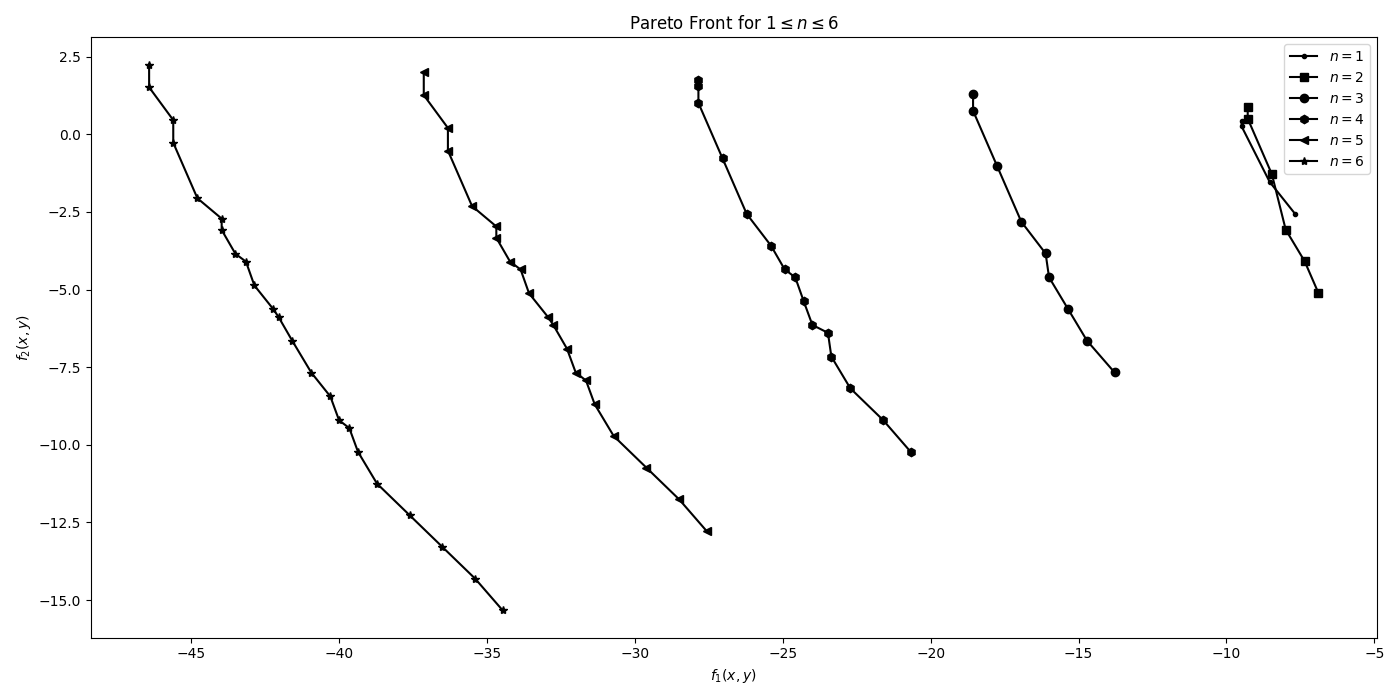
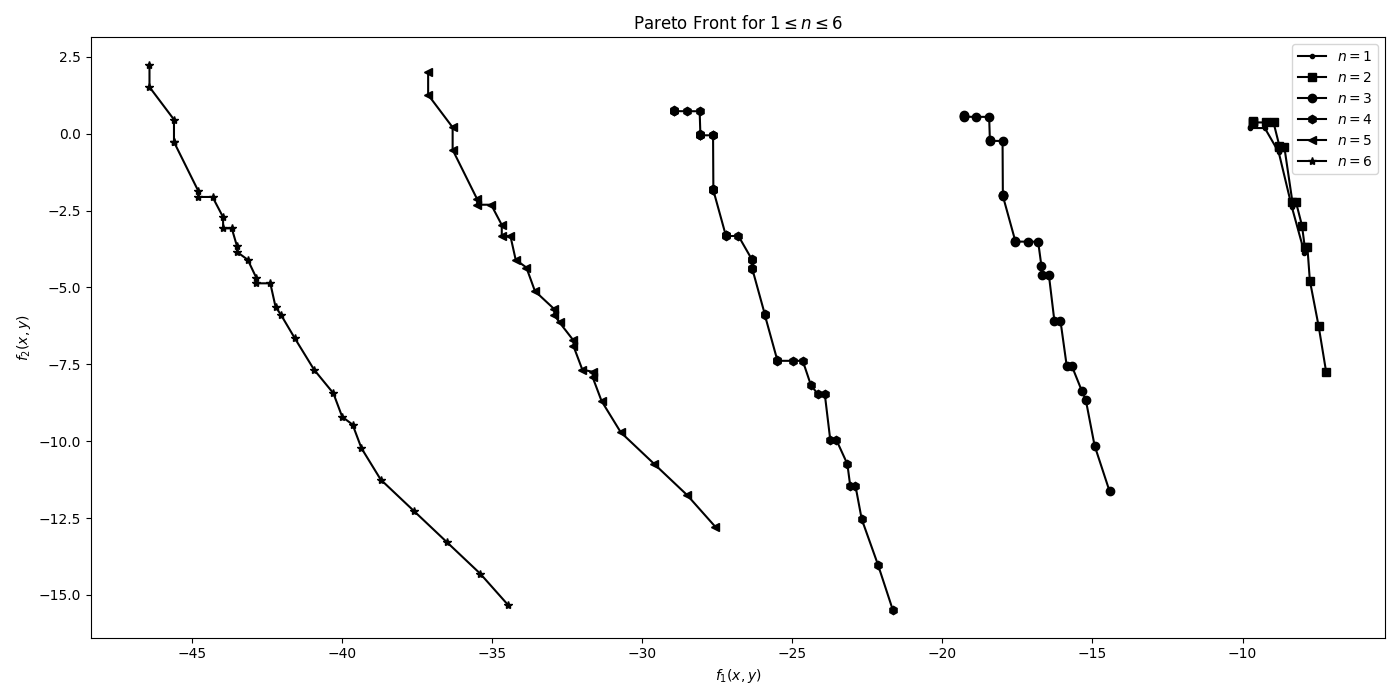
img update for readme

diff --git a/README.md b/README.md
@@ -1,22 +1,6 @@
 
 # Objective Function Suite
 
-# IN PROGRESS. Last update Sept. 2, 2024
-TODO list:
-
-
-[ ] Add AntennaCAT set functions
-
-[x] Add blurbs for single input, single objective functions
-
-[ ] Update headers to match code migration
-
-[ ] Cosmetic graph fixes for README
-
-[ ] Update summary tables in README
-
-
-
 ## Table of Contents
 * [Project Description](#project-description)
 * [Requirements](#requirements)
@@ -77,7 +61,7 @@ TODO list:
     * [AntennaCAT Objective Function Set](#antennacat-objective-function-set)
         * [AntennaCAT Function 1](#antennacat-function-1)
         * [AntennaCAT Function 2](#antennacat-function-2)
-        * [AntennaCAT Function 3](#antennacat-function-3) (STEP)
+        * [AntennaCAT Function 3](#antennacat-function-3)
         * [AntennaCAT Function 10](#antennacat-function-10)
         * [AntennaCAT Function 11](#antennacat-function-11)
         * [AntennaCAT Function 12](#antennacat-function-12)
@@ -408,7 +392,7 @@ The Booth function is a 2-dimensional input artificial landscape commonly used f
 The Branin function, or Branin-Hoo function, is a 2-dimensional input artificial landscape commonly used for optimization performance evaluation. It has three global minimia. [SFU page](https://www.sfu.ca/~ssurjano/branin.html "Branin function example") 
 
 ```math
- f(x, y) = a*(y-b*(x**2)+c*x-r)**2 + s*(1-t)*np.cos(x)+1
+ f(x, y) = a*(y-b*(x^2)+c*x-r)^2 + s*(1-t)*cos(x)+1
 ```
 
 Where the constants are:
@@ -1086,16 +1070,11 @@ Additional error checking and handling were added to this function's constr_F.py
 </p>
 <p align="center">Fonseca Fleming Feasible Decision Space and Objective Space with Pareto Front for 5 Variables</p>
 
-<p align="center">
- <img src="https://github.com/LC-Linkous/objective_function_suite/blob/main/imgs/fonseca_fleming_plots_pareto_1.png.png" height="300" >
-</p>
-<p align="center">Fonseca Fleming Pareto Front for 1 to 5 Variables with Objective Space</p>
-
 
 <p align="center">
- <img src="https://github.com/LC-Linkous/objective_function_suite/blob/main/imgs/fonseca_fleming_plots_pareto_2.png.png" height="300" >
+ <img src="https://github.com/LC-Linkous/objective_function_suite/blob/main/imgs/fonseca_fleming_plots_pareto_1_6.png" height="300" >
 </p>
-<p align="center"> Comparison of Fonseca Fleming Pareto Front for 1 to 5 Variables</p>
+<p align="center"> Comparison of Fonseca Fleming Pareto Front for 1 to 6 Variables</p>
  
 
 The Fonseca–Fleming Function is a multi-dimensional input, multi-objective function commonly used for optimization performance evaluation. (Fonseca, C. M.; Fleming, P. J. (1995). "An Overview of Evolutionary Algorithms in Multiobjective Optimization". Evol Comput. 3 (1): 1–16. )
@@ -1247,7 +1226,7 @@ Poloni's Two Objective Function is a 2-dimensional, multi-objective function com
 \begin{cases}
 f_{1}(x,y) = [1+(A_{1}-B_{1}(x,y))^2 + (A_{2}-B_{2}(x,y))^2] \\
 f_{2}(x,y) = (x+3)^2 + (y+1)^2
-\end{cases} \\
+\end{cases}
 ```
 ```math
 \text{where}: 
@@ -1698,12 +1677,184 @@ f(x, y) =  \left[(a-x)^2 + b(y-x^2)^2 \right]
 ## AntennaCAT Objective Function Set
 This section contains functions created for testing specific edge cases with the optimizers integrated with AntennaCAT. These functions are not attributed to any particular author and do not come from any particular literature. Additional functions will be added as they are included in the benchmarking process.
 
+#### AntennaCAT Function 1
+
+---
+
+<p align="center">
+ <img src="https://github.com/LC-Linkous/objective_function_suite/blob/main/imgs/antennacat_func1_1_in_1_out_plots.png" height="300" >
+</p>
+<p align="center">One Dimensional AntennaCAT Function 1, Constrained Input 0 to 1</p>
+
+
+AntennaCAT Function 1 is a single-input, single-objective function with a global minima and a local minima when constrained between 0 and 1.
+
+
+
+```math
+f(x) = sin(5x^3) + cos(5x)*(1-tanh(x^2))
+
+```
+
+Where:
+- $x$ is the single decision variable input.
+- The optimal solution is at $f(x) = -0.95$, where $x = 0.97$.
+
+
+| Global Minima | Boundary | Constraints |
+|----------|----------|----------|
+| f(0.97) = -0.95 | $0\leq x\leq 1$ (artificial) |   | 
+
+
+| Local Minima | Boundary | Constraints |
+|----------|----------|----------|
+| f(0.44) = -0.04 | $0\leq x\leq 1$ (artificial) |   | 
+
+
+#### AntennaCAT Function 2
+
+---
+
+<p align="center">
+ <img src="https://github.com/LC-Linkous/objective_function_suite/blob/main/imgs/antennacat_func1_1_in_1_out_plots.png" height="300" >
+</p>
+<p align="center">One Dimensional AntennaCAT Function 1, Constrained Input 0 to 1</p>
+
+
+AntennaCAT Function 2 is a single-input, single-objective function with a global minima and a local minima when constrained between 0 and 1.
+
+
+
+```math
+f(x) = sin(10x^5) + cos(5x)*(1-tanh(x^3))
+
+```
+
+Where:
+- $x$ is the single decision variable input.
+- The optimal solution is at $f(x) = -1.18$, where $x = 0.86$.
+
+
+| Global Minima | Boundary | Constraints |
+|----------|----------|----------|
+| f(0.86) = -1.18 | $0\leq x\leq 1$ (artificial) |   | 
+
+
+| Local Minima | Boundary | Constraints |
+|----------|----------|----------|
+| f(0.48) = -0.4 | $0\leq x\leq 1$ (artificial) |   | 
+
+
+#### AntennaCAT Function 3
+
+---
+
+<p align="center">
+ <img src="https://github.com/LC-Linkous/objective_function_suite/blob/main/imgs/antennacat_func3_1_in_1_out_plots.png" height="300" >
+</p>
+<p align="center">One Dimensional AntennaCAT Function 1, Constrained Input 0 to 1</p>
+
+
+AntennaCAT Function 3 is a modified step function with several discontinuities.
+
+```math
+\text{minimize}: 
+\begin{cases}
+f(x) = 1, if x < 0 \\
+f(x) = 0, if x = 0 \\
+f(x) = .5, if 0< x \leq 0.25 \\
+f(x) = 1, if 0.25 < x \leq 0.3 \\
+f(x) = 1.25, if 0.3 <> x \leq 0.4 \\
+f(x) = 1.5, if 0.4 < x \leq 0.5 \\
+f(x) = 1.25, if 0.5 < x \leq 0.75 \\
+f(x) = 2, x > 0.75 \\
+\end{cases}
+```
+
+Where:
+- $x$ is the single decision variable input.
+- The optimal solution is at $f(x) = 0$, where $x=0$.
+
+
+
+#### AntennaCAT Function 10
+
+---
+
+<p align="center">
+ <img src="https://github.com/LC-Linkous/objective_function_suite/blob/main/imgs/antennacat_function10_3_var_1_obj_plot.png" height="300" >
+</p>
+<p align="center">One Dimensional AntennaCAT Function 10 with 3 Inputs, Constrained Input 0 to 1</p>
+
+
+<p align="center">
+ <img src="https://github.com/LC-Linkous/objective_function_suite/blob/main/imgs/antennacat_function10_3_var_2_obj_plots.png" height="300" >
+</p>
+<p align="center">Two Dimensional AntennaCAT Function 10 with 3 Inputs, Constrained Input 0 to 1</p>
+
+<p align="center">
+ <img src="https://github.com/LC-Linkous/objective_function_suite/blob/main/imgs/antennacat_function10_4_var_1_obj_plots.png" height="300" >
+</p>
+<p align="center">One Dimensional AntennaCAT Function 10 with 4 Inputs, Constrained Input 0 to 1</p>
+
+
+<p align="center">
+ <img src="https://github.com/LC-Linkous/objective_function_suite/blob/main/imgs/antennacat_function10_4_var_2_obj_plots.png" height="300" >
+</p>
+<p align="center">Two Dimensional AntennaCAT Function 10 with 4 Inputs, Constrained Input 0 to 1</p>
+
+
+AntennaCAT Function 10 is a function with single and multi-objective forms. 
+
+```math
+\begin{align*}
+f(\mathbf{x}) = \sin\left(\prod_{i=0}^{x_{n-1}} x_i\right) + \cos(x_1^3)\\
+f(\mathbf{x_{n-1}}) = 1 - x_1
+\end{align*}
+```
+
+Where:
+- $x$ is an array of inputs.
+- $n$ is the number of inputs.
+
+
+
+
+#### AntennaCAT Function 11
+
+---
+
+<p align="center">
+ <img src="https://github.com/LC-Linkous/objective_function_suite/blob/main/imgs/antennacat_function11_4_var_1_obj_plot.png" height="300" >
+</p>
+<p align="center">One Dimensional AntennaCAT Function 11 with 4 Inputs, Constrained Input 0 to 1</p>
+
+
+<p align="center">
+ <img src="https://github.com/LC-Linkous/objective_function_suite/blob/main/imgs/antennacat_function11_4_var_2_obj_plots.png" height="300" >
+</p>
+<p align="center">Two Dimensional AntennaCAT Function 11 with 4 Inputs, Constrained Input 0 to 1</p>
+
+
+
+AntennaCAT Function 11 is a function with single and multi-objective forms. 
+
+```math
+\begin{align*}
+f(\mathbf{x}) = 0.5 * \sin(\prod(\mathbf{x})+ x_0^3)  + sin(x_0^2) 
+\end{align*}
+```
+
+Where:
+- $x$ is an array of inputs.
+- $n$ is the number of inputs.
+
+
+
 
 
 
 ## Function Summary
-
-CLEANUP IN PROGRESS
 
 ### Single-Objective Function Summary
 
